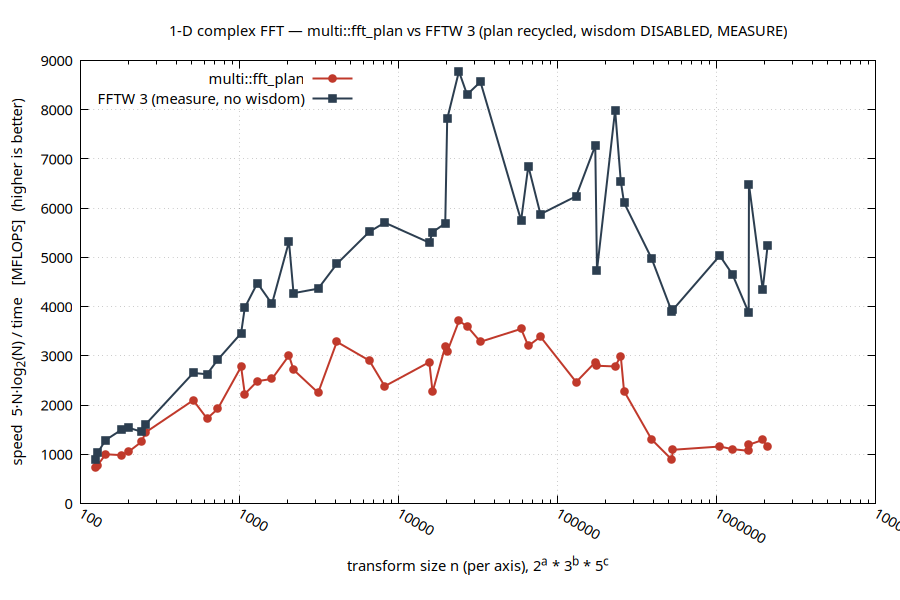
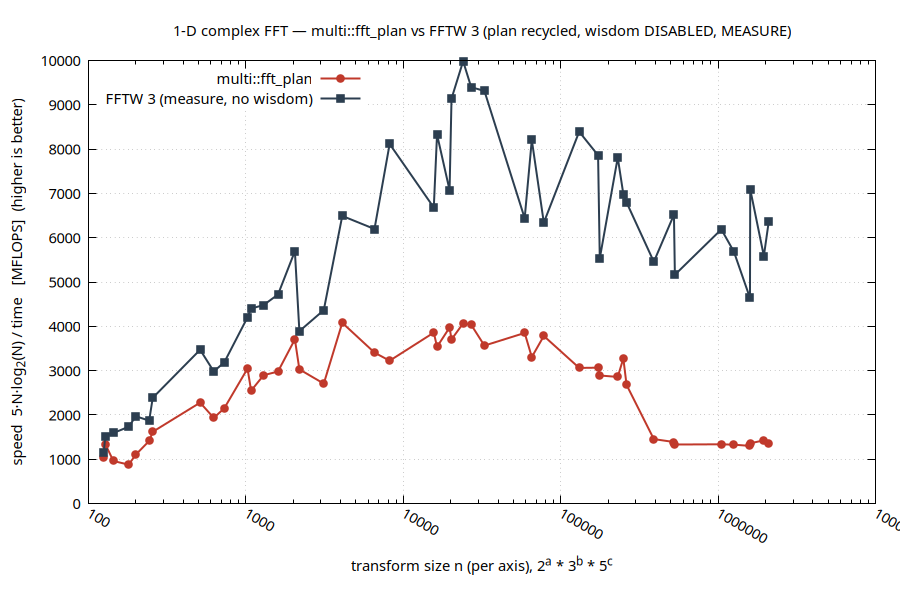
after task 3

diff --git a/benchmark/algorithms_fft.cpp b/benchmark/algorithms_fft.cpp
@@ -53,6 +53,15 @@
 //     sweep) warns on stderr if the machine looks like it throttled mid-run --
 //     this is a supplement to, not a substitute for, only starting the sweep
 //     on an idle, unthrottled machine.
+//   * multi::fft_plan::execute() is passed a std::pmr::polymorphic_allocator
+//     backed by one std::pmr::unsynchronized_pool_resource per plan, built
+//     once outside the timed region and reused across the warm-up and every
+//     timed repetition -- this is the fft.NOTES.md §10.4(b) mitigation for
+//     the per-call scratch-allocation cost the default std::allocator<T>
+//     overload pays every time (verified separately: this pool resource
+//     genuinely reclaims on deallocate(), stabilizing after a handful of
+//     upstream allocations, unlike std::pmr::monotonic_buffer_resource).
+//     FFTW is unaffected -- it already reuses its own plan-owned buffers.
 #include <boost/multi/algorithms/fft.hpp>
 #include <boost/multi/array.hpp>
 
@@ -64,6 +73,7 @@
 #include <cmath>
 #include <complex>
 #include <cstdio>
+#include <memory_resource>
 #include <random>
 #include <utility>
 #include <vector>
@@ -174,14 +184,17 @@ auto reps_for(double n_total) -> long {
 auto calibrate() -> double {
 	multi::array<complex, 1>          a(multi::extents_t<1>{16384}, complex{1.0, 0.0});
 	multi::fft_plan<1, complex> const plan{multi::extents_t<1>{16384}, multi::fft_forward};
-	plan.execute(a.home());
-	return time_it(200, [&] { plan.execute(a.home()); });
+	std::pmr::unsynchronized_pool_resource  pool;
+	std::pmr::polymorphic_allocator<complex> alloc(&pool);
+	plan.execute(a.home(), alloc);
+	return time_it(200, [&] { plan.execute(a.home(), alloc); });
 }
 
 template<std::ptrdiff_t D>
 void sweep(std::vector<int> const& sides, char const* fname, char const* label) {
 	std::FILE* out = std::fopen(fname, "w");
 	std::fprintf(out, "# %s: multi::fft_plan vs FFTW 3 (plan recycled, exec only, plan-build time excluded for both, interleaved timing)\n", label);
+	std::fprintf(out, "# multi::fft_plan::execute() uses a std::pmr::unsynchronized_pool_resource-backed allocator, built once per plan and reused across all reps\n");
 #if defined(DISABLE_WISDOM) && defined(USE_ESTIMATE)
 	std::fprintf(out, "# FFTW: FFTW_ESTIMATE, wisdom DISABLED (fftw_forget_wisdom() before every plan)\n");
 #elif defined(DISABLE_WISDOM)
@@ -207,6 +220,12 @@ void sweep(std::vector<int> const& sides, char const* fname, char const* label) 
 		std::array<multi::ssize_t, D> ext_arr{};
 		ext_arr.fill(n);
 		multi::fft_plan<D, complex> const plan{ext_arr, multi::fft_forward};  // plan build: not timed
+
+		// One pool per plan, built once and reused across the warm-up and
+		// every timed repetition below -- the §10.4(b) mitigation for the
+		// default execute() overload's per-call allocation cost.
+		std::pmr::unsynchronized_pool_resource   pool;
+		std::pmr::polymorphic_allocator<complex> alloc(&pool);
 
 		auto* in = static_cast<fftw_complex*>(fftw_malloc(sizeof(fftw_complex) * static_cast<std::size_t>(N)));
 		auto* fo = static_cast<fftw_complex*>(fftw_malloc(sizeof(fftw_complex) * static_cast<std::size_t>(N)));
@@ -235,27 +254,27 @@ void sweep(std::vector<int> const& sides, char const* fname, char const* label) 
 		double ffw  = 0.0;
 		if constexpr(D == 1) {
 			load();
-			plan.execute(flat.home());  // untimed warm-up, symmetric with FFTW's below
+			plan.execute(flat.home(), alloc);  // untimed warm-up, symmetric with FFTW's below
 			loadf();
 			fftw_execute(p);  // untimed warm-up, symmetric with multi's above
 			std::tie(mine, ffw) = time_it_interleaved(
-				reps, [&] { load(); plan.execute(flat.home()); }, [&] { loadf(); fftw_execute(p); });
+				reps, [&] { load(); plan.execute(flat.home(), alloc); }, [&] { loadf(); fftw_execute(p); });
 		} else if constexpr(D == 2) {
 			multi::array_ref<complex, 2> v(flat.data_elements(), {n, n});
 			load();
-			plan.execute(v.home());
+			plan.execute(v.home(), alloc);
 			loadf();
 			fftw_execute(p);
 			std::tie(mine, ffw) = time_it_interleaved(
-				reps, [&] { load(); plan.execute(v.home()); }, [&] { loadf(); fftw_execute(p); });
+				reps, [&] { load(); plan.execute(v.home(), alloc); }, [&] { loadf(); fftw_execute(p); });
 		} else {
 			multi::array_ref<complex, 3> v(flat.data_elements(), {n, n, n});
 			load();
-			plan.execute(v.home());
+			plan.execute(v.home(), alloc);
 			loadf();
 			fftw_execute(p);
 			std::tie(mine, ffw) = time_it_interleaved(
-				reps, [&] { load(); plan.execute(v.home()); }, [&] { loadf(); fftw_execute(p); });
+				reps, [&] { load(); plan.execute(v.home(), alloc); }, [&] { loadf(); fftw_execute(p); });
 		}
 
 		fftw_destroy_plan(p);
